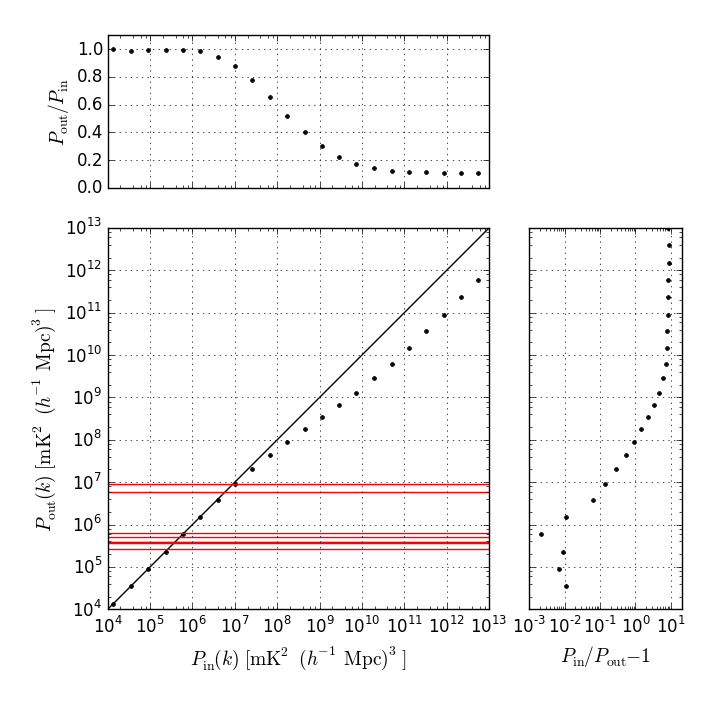
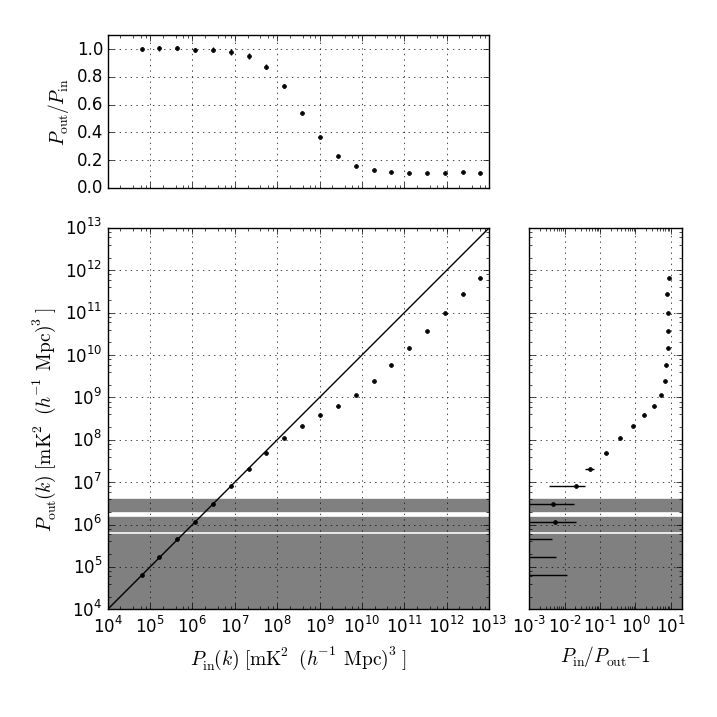
Finished pass through captions.

diff --git a/psa64_pspec_ver2.tex b/psa64_pspec_ver2.tex
@@ -1767,6 +1767,7 @@ in the distribution of values, likely as a result of foreground contamination.
 
 
 \subsection{The Covariance Matrix and Signal Loss}
+\label{sec:sigloss}
 %Covariance matrix nuances.
 %   -describe covariance matrix and data vectors.
 %   -How we get the covariance matrix. 
@@ -1885,13 +1886,13 @@ averaged over realizations. The final result is shown in figure
 \ref{fig:signal_loss}
 
 \begin{table}[htdp]
-\caption{SIGNAL LOSS ANALYSIS STAGES}
+\caption{SIGNAL LOSS VERSUS ANALYSIS STAGE}
 \begin{center}
 \begin{tabular}{rll}
-Analysis Step & Typical Loss & Maximum Signal Loss \\ \hline
-Flux Scale Calibration &  $\ll 2 \times 10^{-7}$ \% & 3\% \\
-Delay Filtering & 4.8\% & .0015\% \\
-Quadratic Estimator & XXX & 100\% \\
+Analysis Stage & Typical Loss & Maximum Loss \\ \hline
+Flux Scale Calibration &  $< 2 \times 10^{-9}$ & 0.03 \\
+Delay Filtering & $1.5\times10^{-5}$ & 0.048 \\
+Quadratic Estimator & $<0.02$ & 0.89 \\
 \end{tabular}
 \end{center}
 \label{tbl:sigloss}
@@ -1988,11 +1989,18 @@ median statistic over the mean, for a gaussian distributed signal.
 \centering
 \includegraphics[width=\columnwidth]{plots/sigloss.png}
 \caption{
-Recovered power spectrum signal as a function of injected signal amplitude.  Red lines
-indicate the measured amplitude of power spectrum modes in Figure \ref{fig:XXX}.  Because
-the recovered signal amplitude is an invertible function of the injected signal amplitude,
+Recovered power spectrum signal as a function of injected signal amplitude.  Shaded regions
+indicate the range in measured amplitude of power spectrum modes in Figure \ref{fig:final_pspec}.  
+Error bars indicate 95\% confidence intervals as determined from the Monte Carlo simulations
+described in Section \ref{sec:sigloss}.
+Because
+the recovered signal amplitude is a monotonic function of the injected signal amplitude,
 it is possible to invert the effects of signal loss in the measured power spectrum values
-to infer the true signal amplitude on the sky. [XXX add some more here]
+to infer the true signal amplitude on the sky. Over the range of powers measured, the 
+maximum correction factor $P_{\rm in}/P_{\rm out}$ is less than 1.02 at 97.5\% confidence.
+The transition to significantly higher correction factors at larger signal amplitudes
+occurs as the injected signal
+dominates over the foreground modes present in estimates of the data covariance.
 }\label{fig:signal_loss}
 \end{figure}
 
@@ -2071,30 +2079,28 @@ to infer the true signal amplitude on the sky. [XXX add some more here]
 \begin{figure*}[!t]
 \centering
 \includegraphics[width=2.3\columnwidth]{plots/density.png}
-\caption{Real part of 
-complex visibilities for the strictly east-west 30 m redundant group of
-baselines at 149.5 MHz, for all integrations. The
-color scale corresponds to the number of samples that went into the specific
-LST/visibility bin. For the densest regions, the spread in visiblities is
-approximately 100 Jy.}
-
+\caption{Histogram of the real component of 
+all calibrated visibilities measured over XXX days with all redundant east-west 30-m 
+baselines at 149.5 MHz. 
+Color scale indicates the number of samples falling in an LST/flux-density bin.
+This plot serves to illustrate the stability of the PAPER instrument and the precision
+of calibration.
 %The bulk of the samples recorded, range from an LST of 5 to
 %10 hours, whilst the EoR cold spot ranges from 0 to 4 hours as seen in figure
 %\ref{fig:coverage}. For the densest regions, the spread in visibility for a
 %given LST sample is $\approx{100} \,\text{Jy}$. The agreement between redundant
 %baselines here gives us reassurance that our baselines are actually measuring
 %the same fourier modes on the sky.}
-\label{fig:density}
+}\label{fig:density}
 \end{figure*}
 
 \begin{figure}[!t]
 \centering
 \includegraphics[width=\columnwidth]{plots/stability.png}
-\caption{The power spectrum of the time series that went into LST averaging at
-150 MHz for the full 135 day observation described in section
-\ref{sec:observations} using a single 30 m east-west baseline. The power
-spectrum was averaged of a 5 hour LST range to beat down noise.}
-
+\caption{Power spectrum of 135 days of time-series data contributing to a single LST bin,
+illustrating the stability of measurements over the observing campaign.  The excess at
+2-day timescales is a beat frequency associated with the changing alignment of 
+integration windows in the correlator with respect to sidereal time.  
 %Demonstration of the time stability of the instrument. For a given LST
 %bin, we take the day to day samples that go into that bin and determine the
 %power spectrum for that time seris. Shown here is the power spectrum of the time
@@ -2107,7 +2113,7 @@ spectrum was averaged of a 5 hour LST range to beat down noise.}
 %time scale. (XXX need to be more clear here, I think. a.const.sidereal\_day/42.9
 %= 2008.487, a.const.sidereal\_day/42.94 = 2006.616.)
 %}
-\label{fig:stability}
+}\label{fig:stability}
 \end{figure}
 
 
@@ -2153,15 +2159,15 @@ as in P14 and \citet{jacobs_et_al2014} at $T_{sys} =
 
 \begin{figure}[b!]\centering
 \includegraphics[width=\columnwidth]{plots/tsys.png}
-\caption{System temperature as a function of frequency plotted for multiple 1
-hour LST ranges. For the majority of the LST range used in the analaysis, we
-find that $T_{sys}=500K$ at 160 MHz.}
-
+\caption{System temperature, inferred from the variance of samples falling 
+in an LST bin, averaged over one-hour intervals in LST.  The measured value
+in the 150--160 MHz range is consistent with previous determinations of
+system temperature (P14; \citealt{jacobs_et_al2014}).
 %statistic calculated in every LST bin and average on hour time scales to
 %estimate the $T_{sys}$ reported here. For a majority of the LST bins, especially
 %those bins used in our analysis, the system temperature is about 500K at 160
 %MHz, consistent with previous estimates of the system temperature.}
-\label{fig:tsys}
+}\label{fig:tsys}
 \end{figure}
 Previous estimates of the system temperature
 (P14; \citealt{jacobs_et_al2014}) relied on differencing and averaging
@@ -2367,13 +2373,15 @@ for the three different neutral fractions $x_{\text{HI}}=\text{.1, .3, and .5}$
 \begin{figure*}[h!]\centering
 \includegraphics[width=2\columnwidth,height=1.2\columnwidth]{plots/pk_k3pk.png}
 \caption{
-Power spectrum, shown as P($k$) (left) and $\Delta^{2}$ (right), at $z=8.4$ resulting from a 134 day PAPER observation
-with 64 dual polarization antennas layed out in a maximally redundant grid. The
-black points are the final power spectrum with 2$\sigma$ error bars. The dashed
-vertical lines at $k\approx{.6\ h\ Mpc^{-1}}$ corresponds to the bounds of the
-delay filter described in section \ref{sec:delay_filter}. The theoretical
-$2\sigma$ thermal noise power spectrum (dashed cyan) corresponds to the
-theoretical minimum error bars consistent $T_{sys}=500K$.
+Measured power spectrum (black dots with 2$\sigma$ error bars)
+at $z=8.4$ resulting from a 134-day observation with PAPER-64.
+The dashed
+vertical lines at $.6\ h\ Mpc^{-1}$ show the bounds of the
+delay filter described in Section \ref{sec:delay_filter}. The theoretical
+$2\sigma$ thermal noise power spectrum is shown in dashed cyan, assuming
+$T_{sys}=500K$.
+XXX signal prediction in magenta.
+XXX other measurements: P14, dillon, gmrt.
 XXX (To be done) The solid cyan curve is the power spectrum of the
 foreground contained data. make foreground pspec.
 XXX Need to fix noise curve. It is completely wrong.
@@ -2385,12 +2393,15 @@ filter (1.9), signal loss (1.15), and median statistic (1.4)}
 
 \begin{figure}[t!]\centering
 \includegraphics[width=\columnwidth]{plots/flat_k3pk_posterior.png}
-\caption{The posteriror distribution of power spectrum values in $\Delta^{2}$
-assuming a flat power spectrum and gaussian error bars. The green and red
+\caption{Posterior distribution of power spectrum amplitude for a flat $\Delta^{2}$
+power spectrum,
+assuming Gaussian error bars. The green and red
 horizontal lines correspond to the 1 and 2 $\sigma$ upper limits, respectrively,
 on the power spectrum. XXXfix sigma lines to be vertical. Make it look better.
-Labels.}
-\label{fig:final_posterioir}
+Labels.
+XXX flat over what range of k?  how influenced by first 2 points outside horizon?
+}
+\label{fig:final_posterior}
 \end{figure}
 
 \begin{figure*}[b!]\centering
@@ -2401,7 +2412,9 @@ for 5 different neutral fractions using the patchy reionization scenario given
 by equation \ref{eqn:patchy_bound} The color scale maxes out at the largest
 possible brightness temperature (380 mK) imposed by the no heating scenario at
 $z=8.4$. The horizontal and vertical axis correspond to the minimum and maximum
-scales included in the patchy reionization model.}
+scales included in the patchy reionization model.
+XXX convert to Tspin, not Tb
+}
 \label{fig:patchy_bound}
 \end{figure*}
 
@@ -2433,13 +2446,13 @@ scales included in the patchy reionization model.}
 
 \begin{figure*}[t!]\centering
 \includegraphics[width=2\columnwidth]{plots/pspec_comparison.png}
-\caption{Power spectra with and without various analysis stages applied to data.
-Power spectra without optimal fringe rate filtering (dot-dashed) and without
-omnical calibration (dashed) are shown along with the final power spectrum
-(solid) as shown in figure \ref{fig:final_pspec}. This veritcal dashed line
-corresponds to the bounds of the wideband delay filter. }
-
-
+\caption{Diagnostic power spectra in the style of Figure \ref{fig:final_pspec}
+illustrating the impact of various analysis stages.
+Power spectra omitting the stages of fringe-rate filtering (dot-dashed) and 
+Omnical calibration (dashed) show higher residuals than the the final power spectrum
+(solid) that includes both stages.
+[XXX update this with same pspec as final figure]
+[XXX put the power spectra even closer together]
 %The blue power spectrum has the full pipeline applied to it and is identical to
 %\ref{fig:final_pspec}. The red power spectrum does not have omnical applied to
 %it, and hence the error bars are bigger. Note that it does have the otimal
@@ -2447,7 +2460,7 @@ corresponds to the bounds of the wideband delay filter. }
 %have the optimal fringe rate filter applied.  However, it does have a fringe
 %rate filter applied to that excludes negative fringe rates and those greater
 %than the maimum fringe rate for the given baseline (east-west 30 m baselines). }
-\label{fig:pspec_comp}
+}\label{fig:pspec_comp}
 \end{figure*}
 
 Here, we discuss the effect to the power spectrum if various stages of the

diff --git a/plots/plot_sigloss.py b/plots/plot_sigloss.py
@@ -25,9 +25,9 @@ for inject in glob.glob('data/sigloss/inject_*'):
         #pC_spec.append(pC.real)
         #pI_spec.append(pI.real)
     pCs.append(n.average(pC_avg))
-    pCs_err.append(n.std(pC_avg))
+    pCs_err.append(n.std(pC_avg)/n.sqrt(len(pspecs)))
     pIs.append(n.average(pI_avg))
-    pIs_err.append(n.std(pI_avg))
+    pIs_err.append(n.std(pI_avg)/n.sqrt(len(pspecs)))
     #pC_spec = n.average(pC_spec, axis=0)
     #pI_spec = n.average(pI_spec, axis=0)
     #p.figure(2); p.plot(pI_spec/pC_spec)
@@ -43,7 +43,7 @@ p.figure(1)
 pklo,pkhi = 1e4,1e13
 p.subplot(gs[2])
 #p.loglog(pIs, pCs, 'k.')
-p.errorbar(pIs, pCs, xerr=pIs_err, yerr=pCs_err, capsize=0, fmt='k.')
+p.errorbar(pIs, pCs, xerr=2*pIs_err, yerr=2*pCs_err, capsize=0, fmt='k.')
 p.loglog([pklo,pkhi],[pklo,pkhi], 'k-')
 p.xlim(pklo, pkhi)
 p.ylim(pklo, pkhi)
@@ -67,7 +67,9 @@ ax3 = p.subplot(gs[3])
 p.setp(ax3.get_yticklabels(), visible=False)
 #p.loglog(n.clip(pIs/pCs - 1, 1e-3,n.Inf), pCs, 'k.')
 #p.loglog(n.abs(pIs/pCs - 1), pCs, 'k.')
-p.errorbar(pIs/pCs - 1, pCs, xerr=pIs_err/pCs, yerr=pCs_err, fmt='k.', capsize=0)
+p.errorbar(pIs/pCs - 1, pCs, xerr=2*pIs_err/pCs, yerr=2*pCs_err, fmt='k.', capsize=0)
+print pIs/pCs - 1
+print pCs
 ax3.set_xscale('log')
 ax3.set_yscale('log')
 p.ylim(pklo, pkhi)
@@ -78,7 +80,7 @@ p.xlabel(r'$P_{\rm in}/P_{\rm out}-1$', fontsize=14)
 
 ax0 = p.subplot(gs[0])
 p.setp(ax0.get_xticklabels(), visible=False)
-p.errorbar(pIs, pCs/pIs, xerr=pIs_err, yerr=pCs_err/pIs, fmt='k.', capsize=0)
+p.errorbar(pIs, pCs/pIs, xerr=2*pIs_err, yerr=2*pCs_err/pIs, fmt='k.', capsize=0)
 ax0.set_xscale('log')
 p.xlim(pklo, pkhi)
 #p.ylim(3e-2,3)
